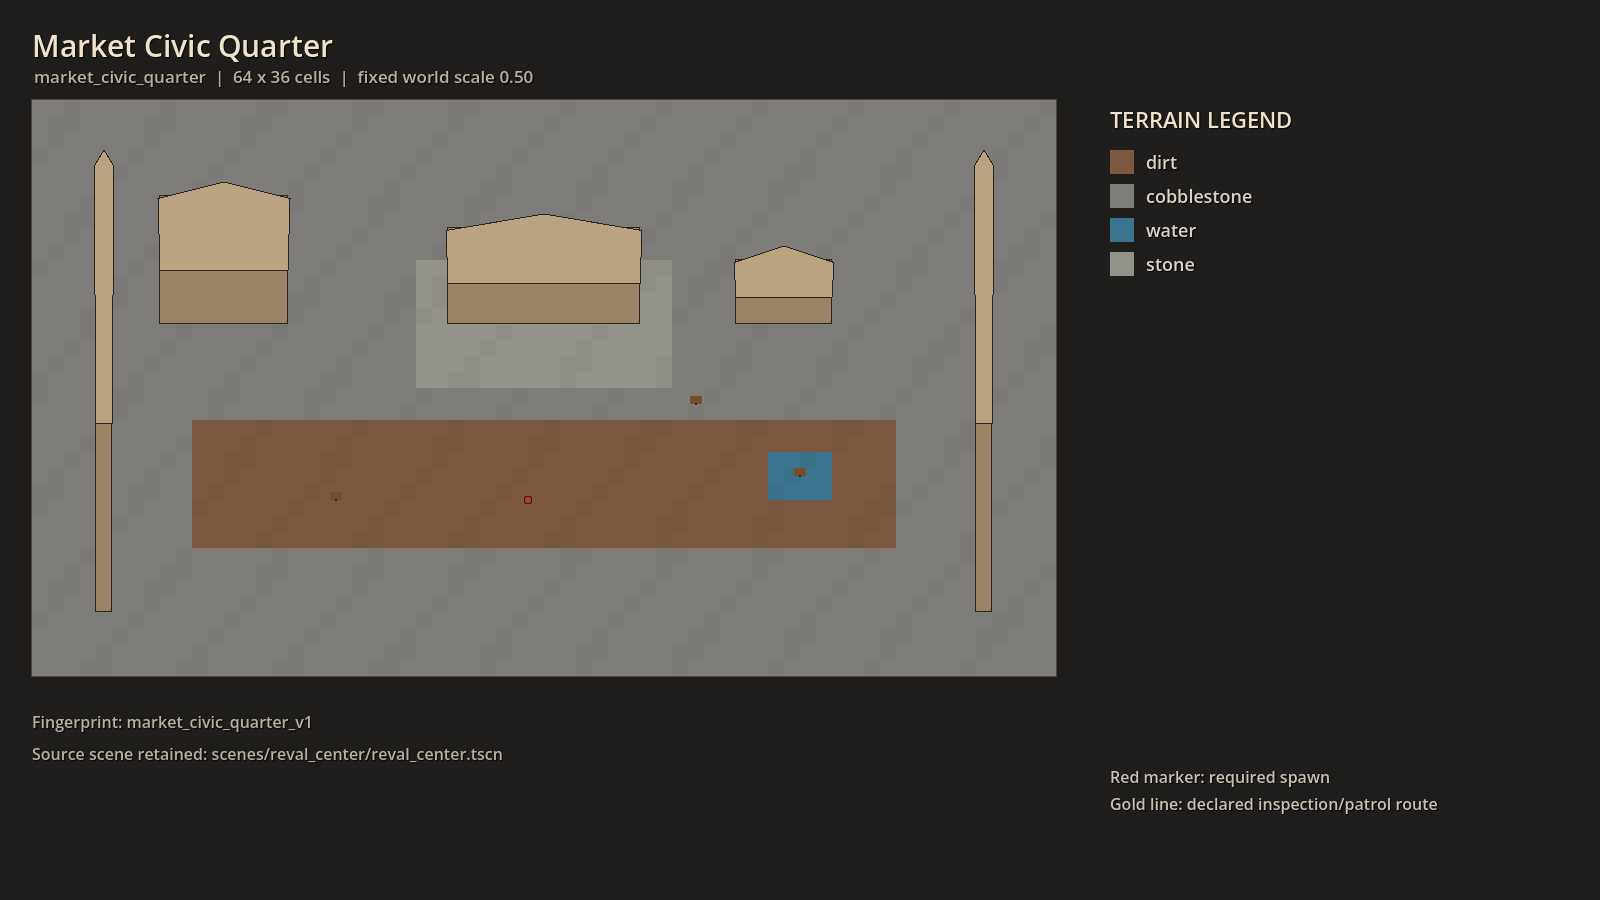
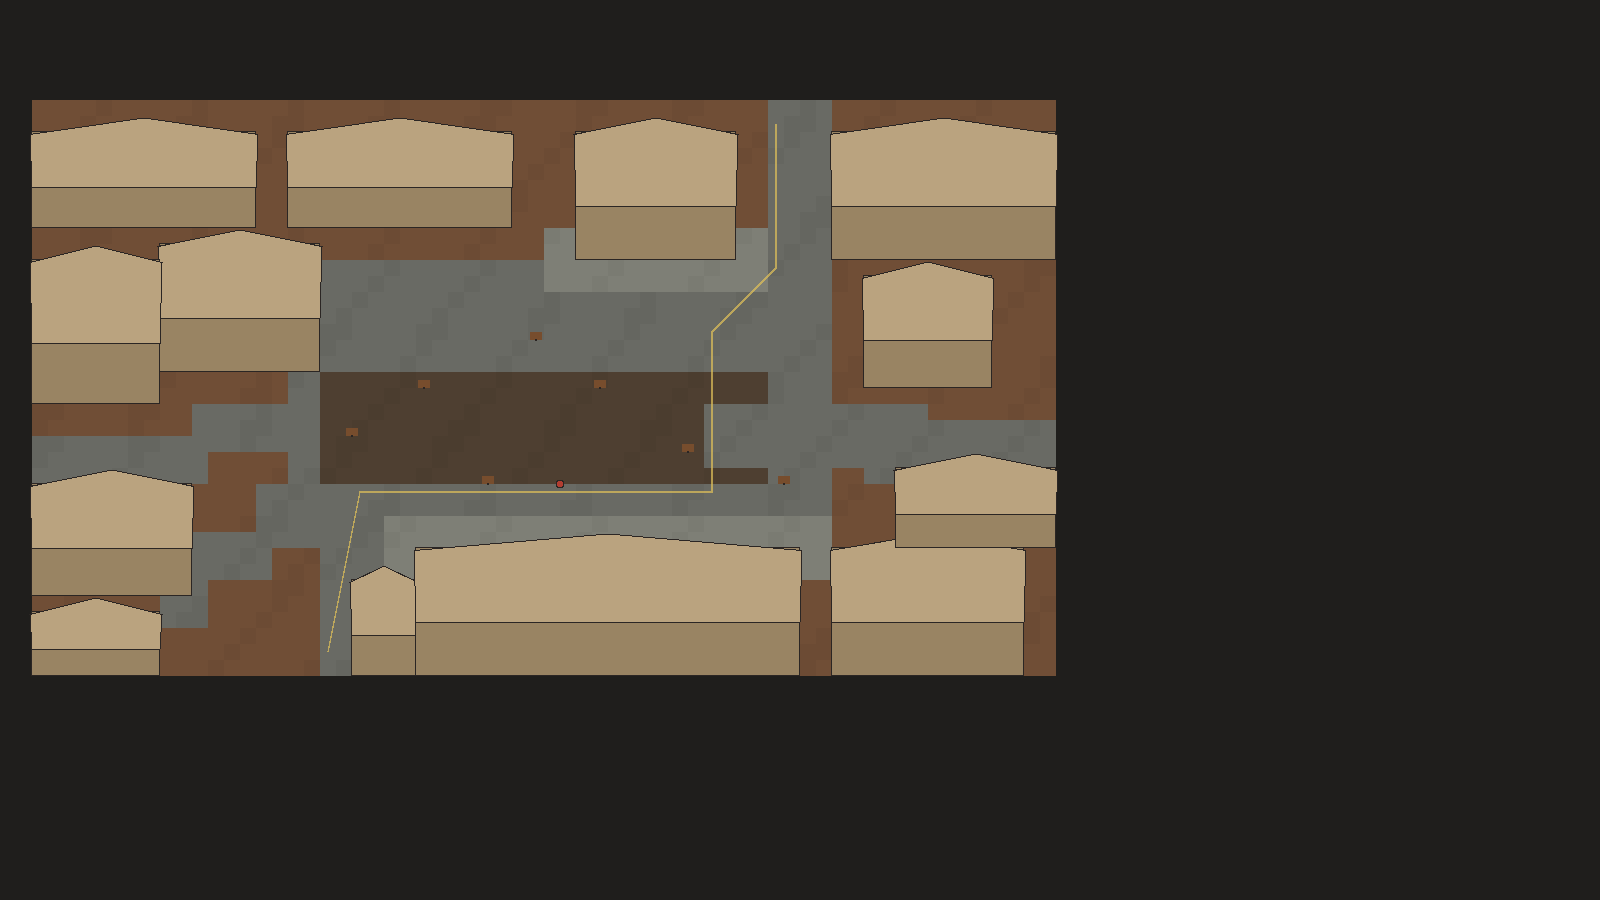
Improve central district historical street layout
Replace the boxy civic-quarter prototype with an rrmap-authored Town Hall Square, historically grounded frontages, and reciprocal street-edge transitions to Lower Town and the north quarter. Add topology and map-audit coverage.

diff --git a/docs/MAP_CONVERSION_PLAN.md b/docs/MAP_CONVERSION_PLAN.md
@@ -127,7 +127,7 @@ These conversions can preserve layout research without expanding the playable po
 
 | Scene | Status | Terrain palette | World bounds | Required buildings and props | Transitions and spawns | Collision and navigation | Source references | Target declarative definition |
 |-------|--------|-----------------|--------------|------------------------------|------------------------|--------------------------|-------------------|-------------------------------|
-| `scenes/reval_center/reval_center.tscn` | `convert` | `market_civic_prototype`: worn cobble, dressed stone, packed dirt, timber threshold and drainage water | 64 x 36 cells | Town Hall mass, square edge, Holy Spirit church or hospital silhouette, apothecary, guild frontage, stalls, carts, well and civic notice props | Prototype inspection spawn only; no doors to active slice and no manifest entry | Closed prototype perimeter, landmark footprints, square circulation nav and Y-sort; no quest patrol graph | `scenes/reval_center/reval_center.tscn`<br>`scenes/revel-map.jpg`<br>`scenes/reval_walls_towers/wall-map.png`<br>`scenes/reval_center/market_civic_quarter/town_hall_square.md`<br>`scenes/reval_center/apothecary.md` | `scripts/map/definitions/prototypes/market_civic_quarter_definition.gd` |
+| `scenes/reval_center/reval_center.tscn` | `convert` | `market_civic_prototype`: worn cobble, dressed stone, packed dirt, timber threshold and drainage water | 64 x 36 cells | Town Hall on the square's south edge, Holy Spirit church and hospital on the north, guild and merchant frontages, stalls, carts, well and civic notice props | Reciprocal developer transitions: Vana Turg east to Lower Town `vana_turg_boundary`, Karja lane south to `karja_road_boundary`, and Pikk Street north to the north quarter `to_reval_center`; stable local spawn IDs remain unchanged | Open street-edge transitions, landmark footprints, square circulation nav and Y-sort; no quest patrol graph | `content/maps/market_civic_quarter.rrmap`<br>`scenes/reval_center/reval_center.tscn`<br>`scenes/revel-map.jpg`<br>`scenes/reval_center/market_civic_quarter/town_hall_square.md`<br>`scenes/reval_center/market_civic_quarter/town_hall.md`<br>`scenes/reval_center/market_civic_quarter/church_of_the_holy_spirit.md` | `scripts/map/definitions/prototypes/market_civic_quarter_definition.gd` |
 | `scenes/reval_center/market_civic_quarter/market.tscn` | `convert` | `market_square_prototype`: worn cobble, packed dirt, mud, timber and canvas accents | 50 x 28 cells | Market lanes, covered stalls, weighing table, well, carts, baskets, barrels, awnings and Town Hall edge | Prototype inspection spawn only; no active destination | Stall footprints, clear crossing routes, crowd nav lanes, no trapping pockets, shared Y-sort | `scenes/reval_center/market_civic_quarter/market.tscn`<br>`scenes/reval_center/market_civic_quarter/market.md`<br>`scenes/reval_center/market_civic_quarter/town_hall_square.md` | `scripts/map/definitions/prototypes/market_square_definition.gd` |
 | `scenes/reval_center/market_civic_quarter/olaf_guild_hall.tscn` | `convert` | `guild_interior_prototype`: dressed stone, timber floor, plaster, iron and hearth accents | 32 x 20 cells | Guild hall, dais, long tables, benches, chests, banner anchors, hearth and street door | Prototype inspection spawn only; door remains inert until approval | Closed interior shell, furniture footprints, central assembly nav and foreground fade | `scenes/reval_center/market_civic_quarter/olaf_guild_hall.tscn`<br>`scenes/reval_center/market_civic_quarter/st_olafs_guild_hall.md` | `scripts/map/definitions/prototypes/st_olafs_guild_hall_definition.gd` |
 | `scenes/reval_north/reval_north.tscn` | `convert` | `north_quarter_prototype`: cobble, packed dirt, stone, timber, dock mud and sparse grass | 64 x 36 cells | Pikk Street spine, St. Olaf's silhouette, guild facades, workshops, shipwright or rope props, carts and barrels | Prototype inspection spawn only; all five legacy district-edge spawn IDs retire rather than connect | Closed prototype perimeter, landmark footprints, street nav spine, workshop exclusions and Y-sort | `scenes/reval_north/reval_north.tscn`<br>`scenes/revel-map.jpg`<br>`scenes/reval_north/pikk_street.md`<br>`scenes/reval_north/st_olafs_church.md`<br>`scenes/reval_north/great_guild_hall.md` | `scripts/map/definitions/prototypes/north_quarter_definition.gd` |